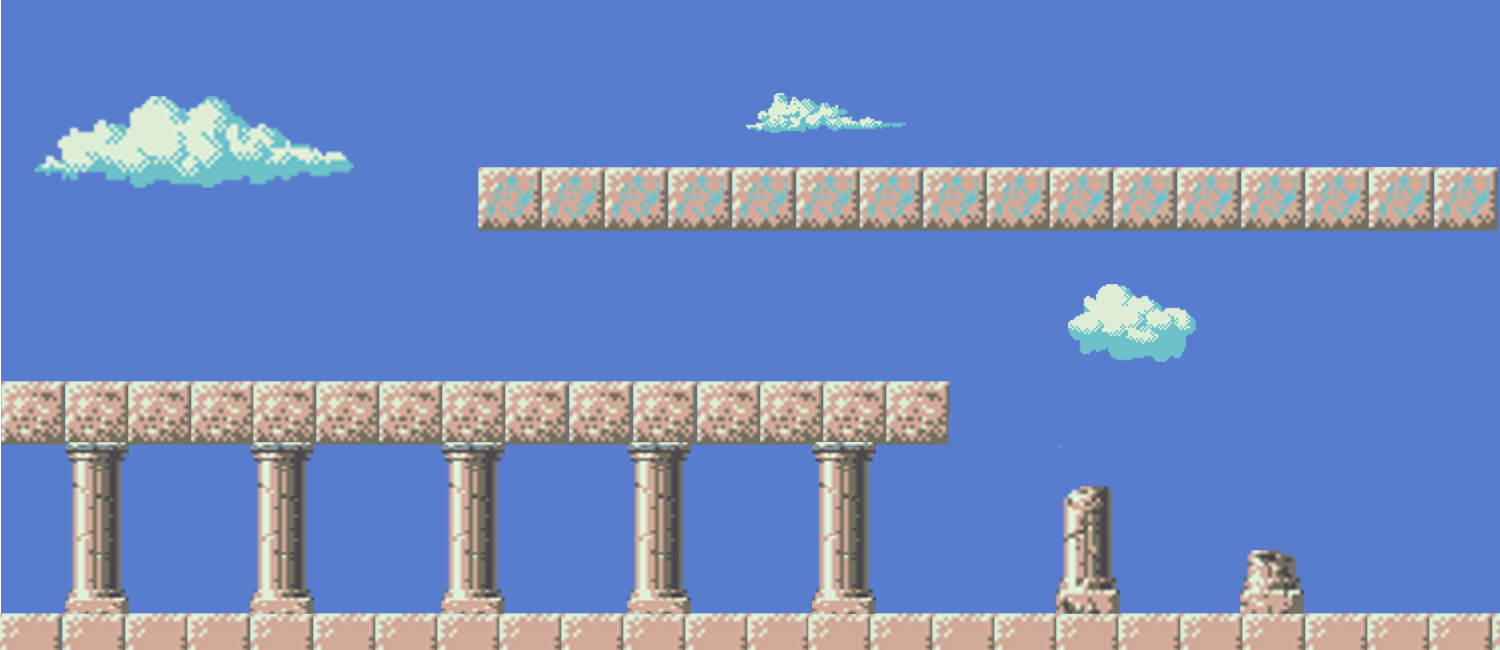
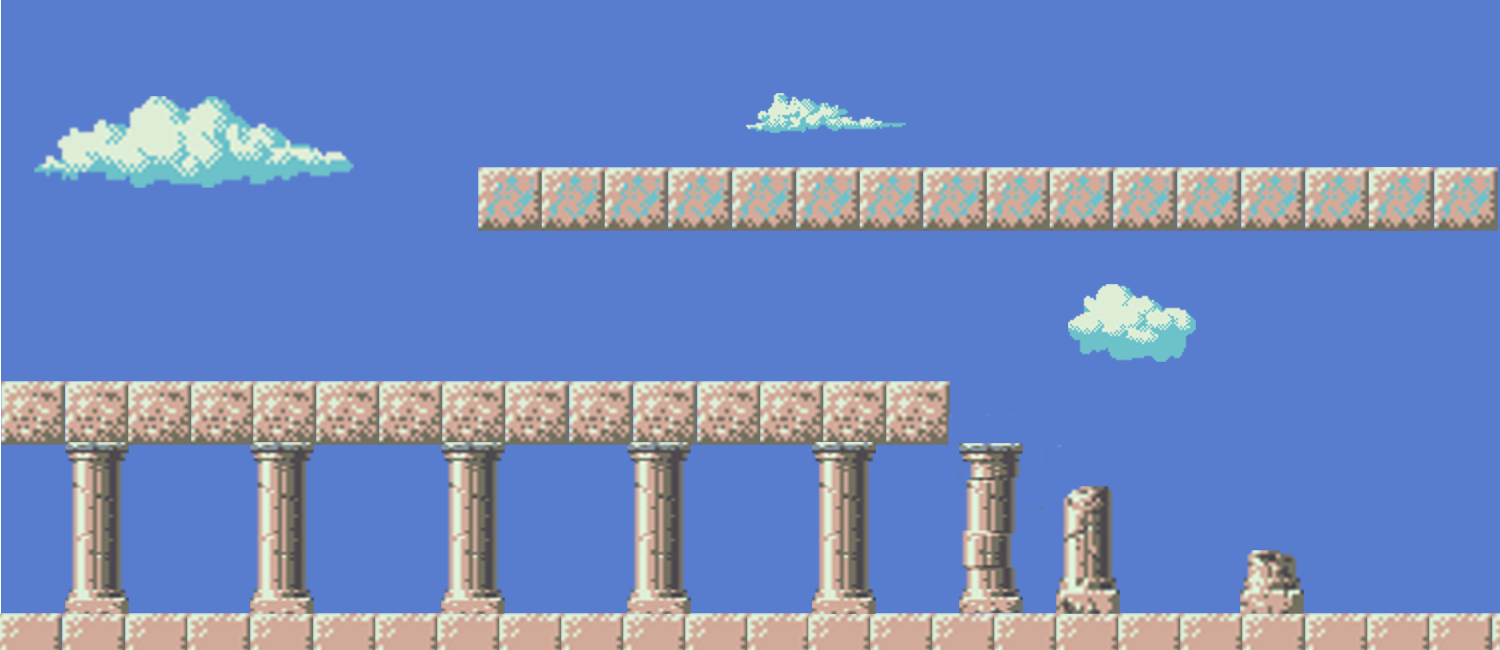
Changed art and added hitbox

Changed region(s): [[0.6133, 0.6769, 0.7053, 0.9538]]

diff --git a/src/ENV.js b/src/ENV.js
@@ -20,7 +20,10 @@ export default class ENV{
 		this.objects = this.objectController.exists;
 		this.level2 = [[{x: 0, y: 610}, {x: 0, y: 650}, {x: wdth, y: 650}, {x: wdth, y: 610}],
 							[{x: 0, y: 380},{x: 0, y: 445},{x: 950, y: 445},{x: 950, y: 380}],
-							[{x: 475, y: 168},{x: 475, y: 225},{x: 1500, y: 225},{x: 1500, y: 168}]];
+							[{x: 475, y: 168},{x: 475, y: 225},{x: 1500, y: 225},{x: 1500, y: 168}],
+							[{x: 1240, y: 550}, {x: 1240, y: 585}, {x: 1304, y: 585}, {x: 1304, y: 550}],
+							[{x: 1064, y: 488}, {x: 1064, y: 526}, {x: 1128, y: 526}, {x: 1128, y: 488}],
+							[{x: 960, y: 442}, {x: 960, y: 480}, {x: 1020, y: 480}, {x: 1020, y: 442}]];
 		this.level3 = [[{x: 520, y: 584}, {x: 520, y: 650}, {x: 975, y: 650}, {x: 975, y: 584}],
 						[{x: 0, y: 450}, {x: 0, y: 514}, {x: 450, y: 514}, {x: 450, y: 450}],
 						[{x: 1040, y: 450}, {x: 1040, y: 514}, {x: 1500, y: 514}, {x: 1500, y: 450}],

diff --git a/src/game.js b/src/game.js
@@ -162,7 +162,7 @@ export default class Game{
 			}
 			this.enemies[this.level].forEach(enemy => enemy.update(this.player.positionVector));
 			//this.environment.update(this.player.positionVector);
-			
+
   }//end update
 
 	//render the game world
